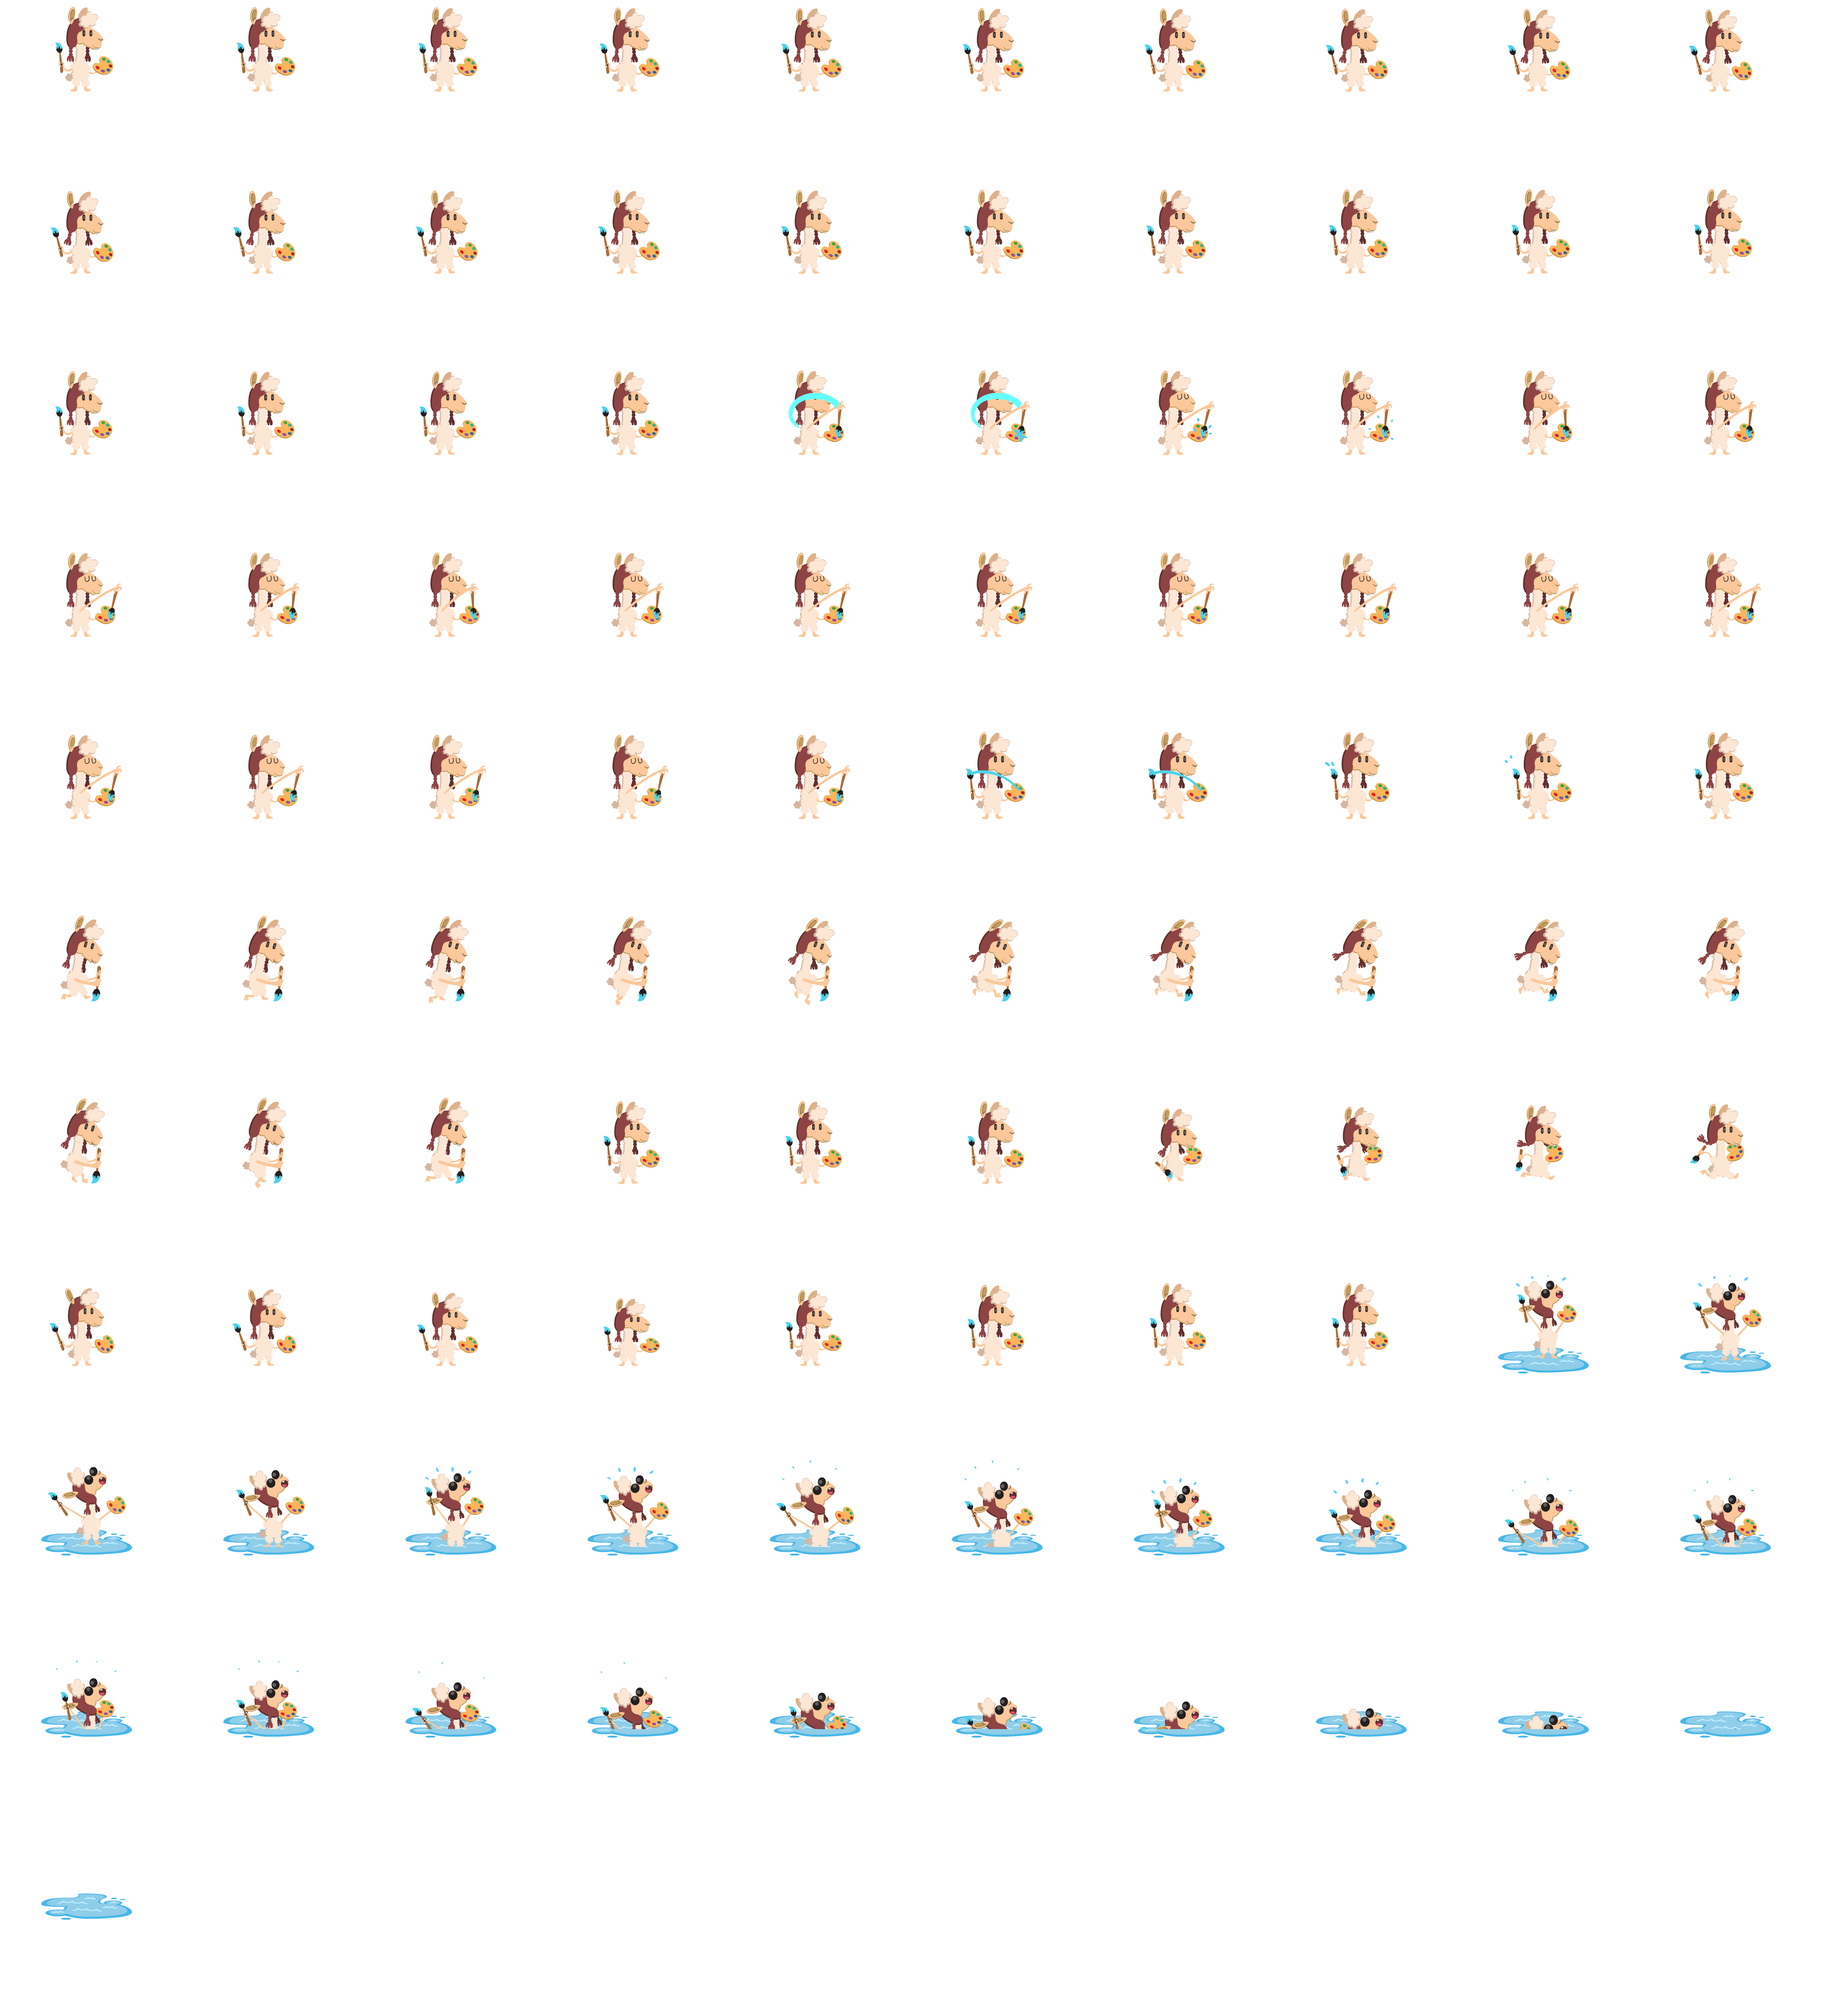
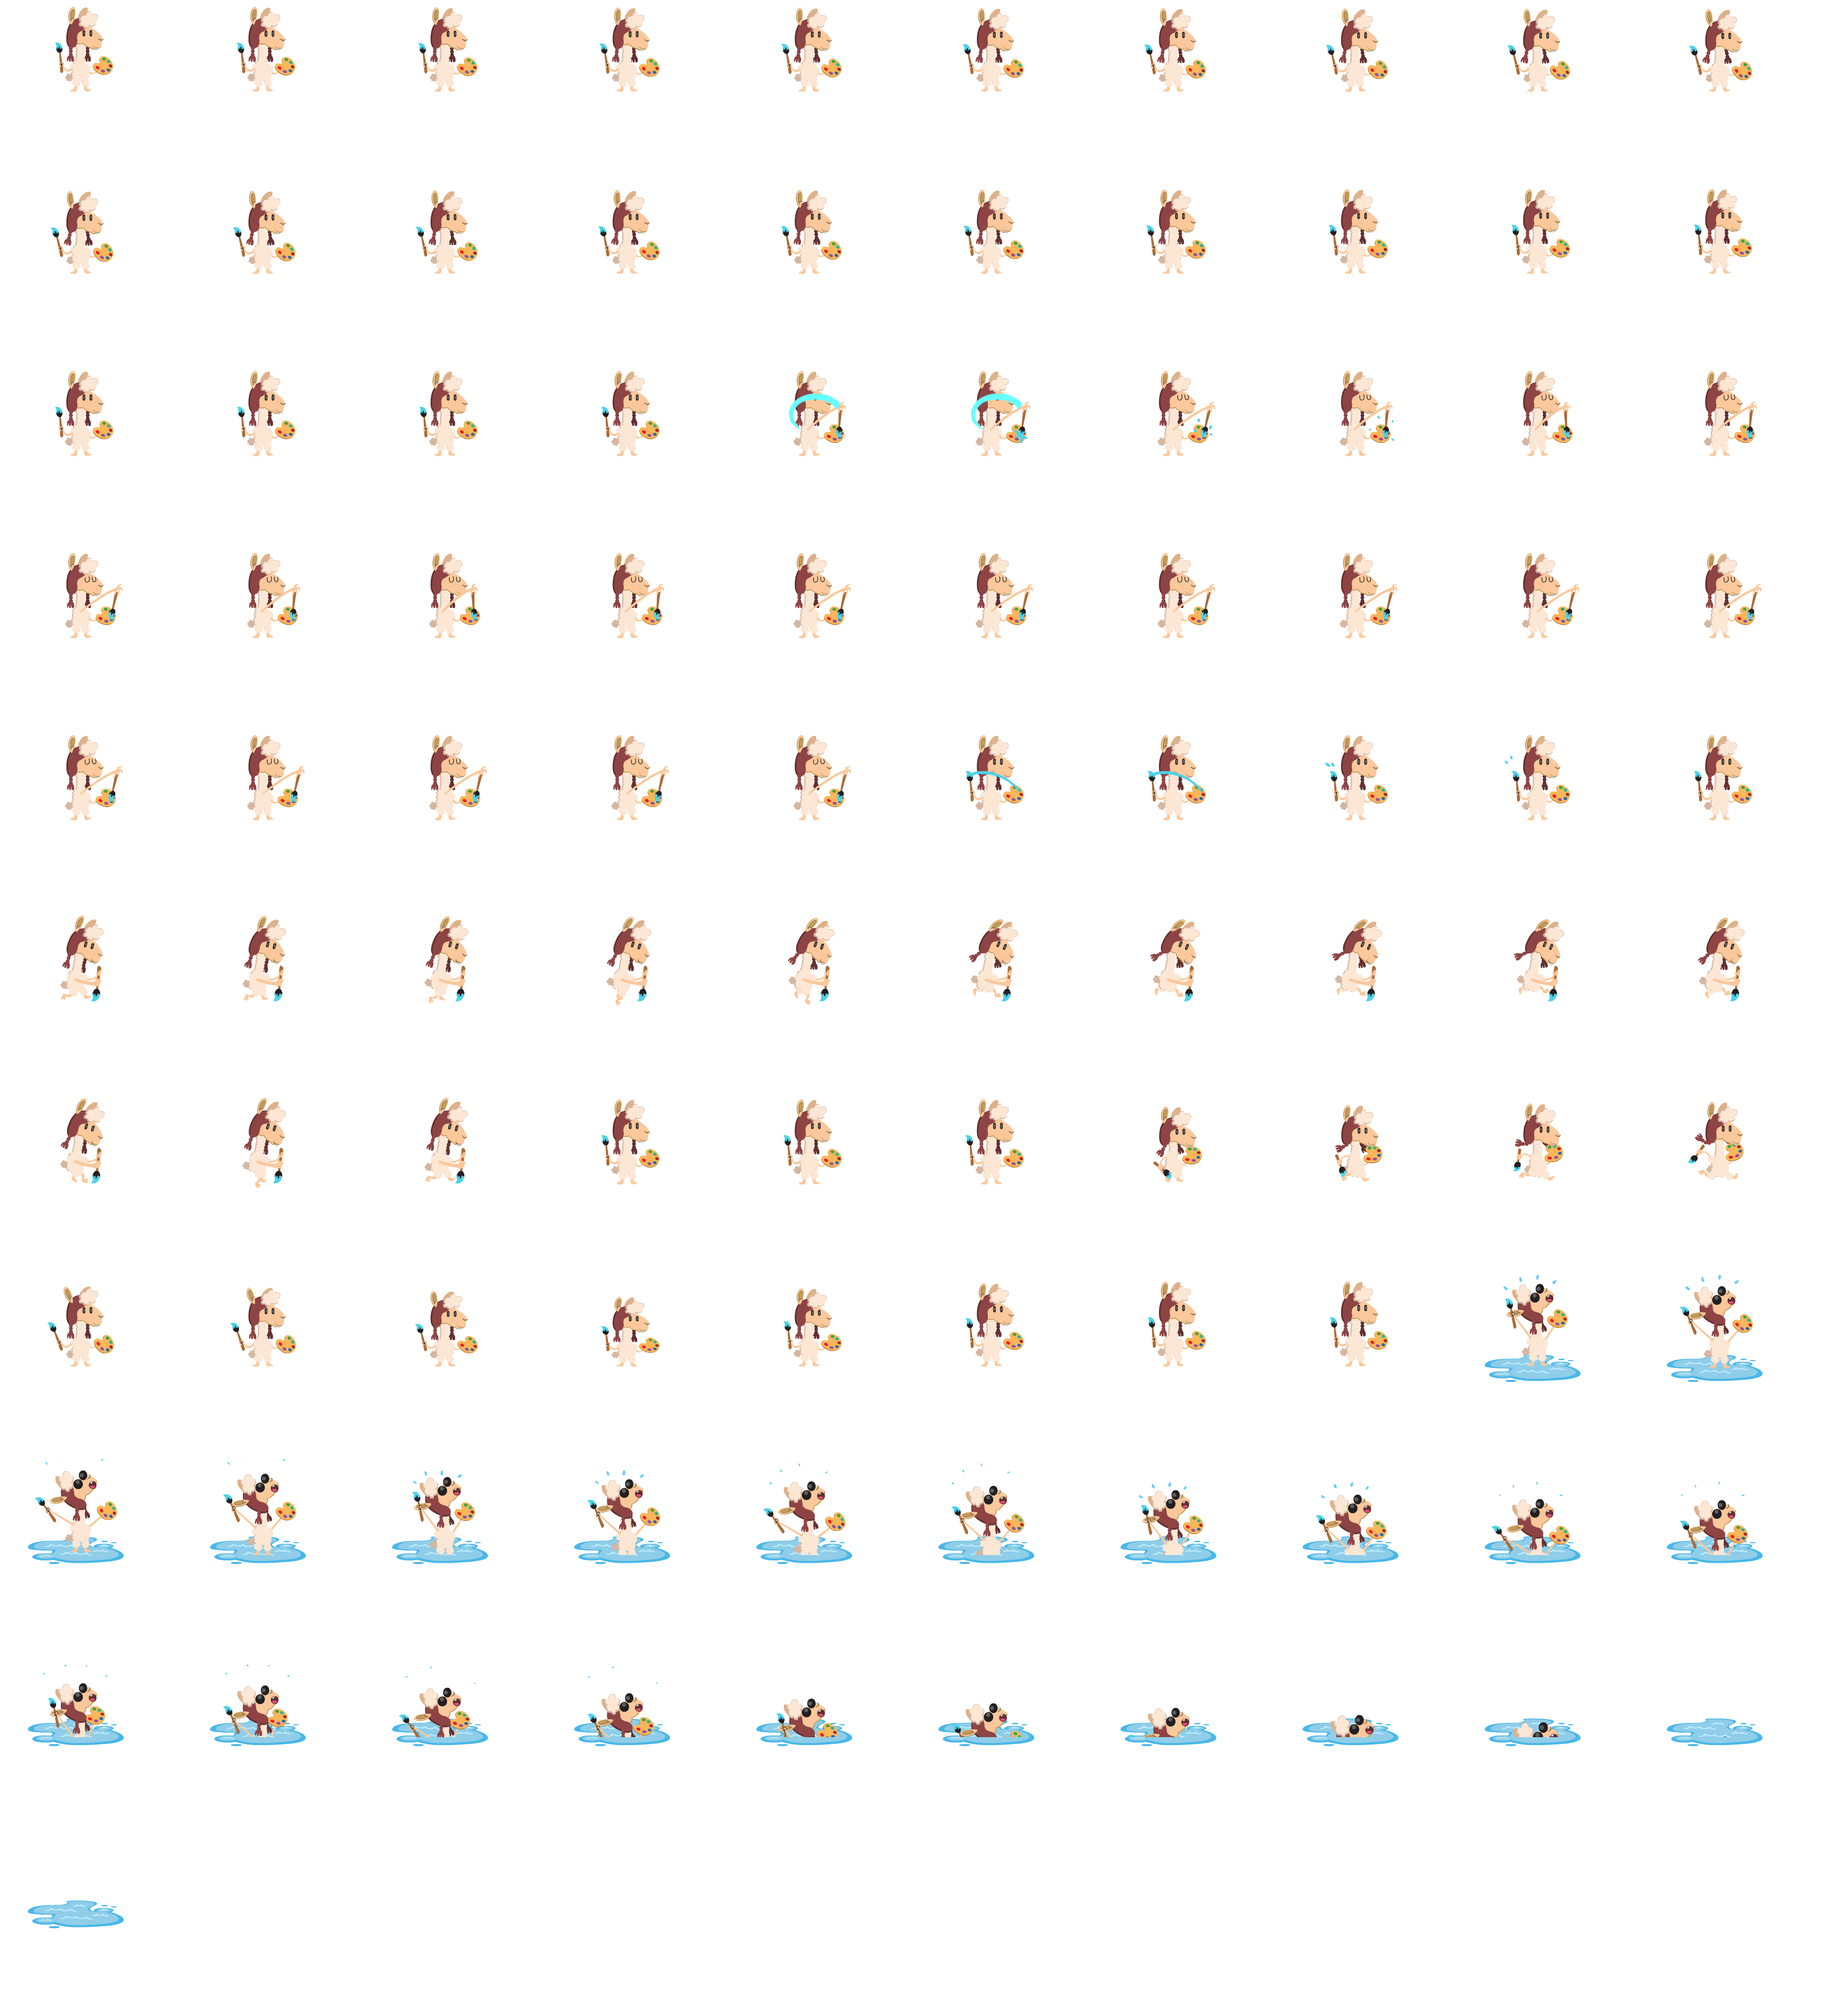
Arreglando animaciones de Coty mal alineadas

diff --git a/app/services/blocks-gallery.js b/app/services/blocks-gallery.js
@@ -862,28 +862,28 @@ export default Ember.Service.extend({
       descripcion: 'Saltar arriba',
       icono: 'icono.arriba.png',
       comportamiento: 'SaltarAnimado',
-      argumentos: '{direccion: [0,1], distancia: 50, alturaDeseada: 50, velocidad_inicial: 20, nombreAnimacion: "arriba"}',
+      argumentos: '{direccion: [0,1], distancia: 50, alturaDeseada: 50, velocidad_inicial: 20, nombreAnimacion: "saltar"}',
     });
 
     this.crearBloqueAccion('SaltarAbajo', {
       descripcion: 'Saltar abajo',
       icono: 'icono.abajo.png',
       comportamiento: 'SaltarAnimado',
-      argumentos: '{direccion: [0,-1], distancia: 50, alturaDeseada: 50, velocidad_inicial: 20, nombreAnimacion: "abajo"}',
+      argumentos: '{direccion: [0,-1], distancia: 50, alturaDeseada: 50, velocidad_inicial: 20, nombreAnimacion: "saltar"}',
     });
 
     this.crearBloqueAccion('SaltarDerecha', {
       descripcion: 'Saltar derecha',
       icono: 'icono.derecha.png',
       comportamiento: 'SaltarAnimado',
-      argumentos: '{direccion: [1,0], distancia: 50, alturaDeseada: 50, velocidad_inicial: 20, nombreAnimacion: "correr"}',
+      argumentos: '{direccion: [1,0], distancia: 50, alturaDeseada: 50, velocidad_inicial: 20, nombreAnimacion: "saltar"}',
     });
 
     this.crearBloqueAccion('SaltarIzquierda', {
       descripcion: 'Saltar izquierda',
       icono: 'icono.izquierda.png',
       comportamiento: 'SaltarAnimado',
-      argumentos: '{direccion: [-1,0], distancia: 50, alturaDeseada: 50, velocidad_inicial: 20, nombreAnimacion: "correr"}',
+      argumentos: '{direccion: [-1,0], distancia: 50, alturaDeseada: 50, velocidad_inicial: 20, nombreAnimacion: "saltar"}',
     });
 
     this.crearBloqueAccion('MoverLeyendoDerecha', {
